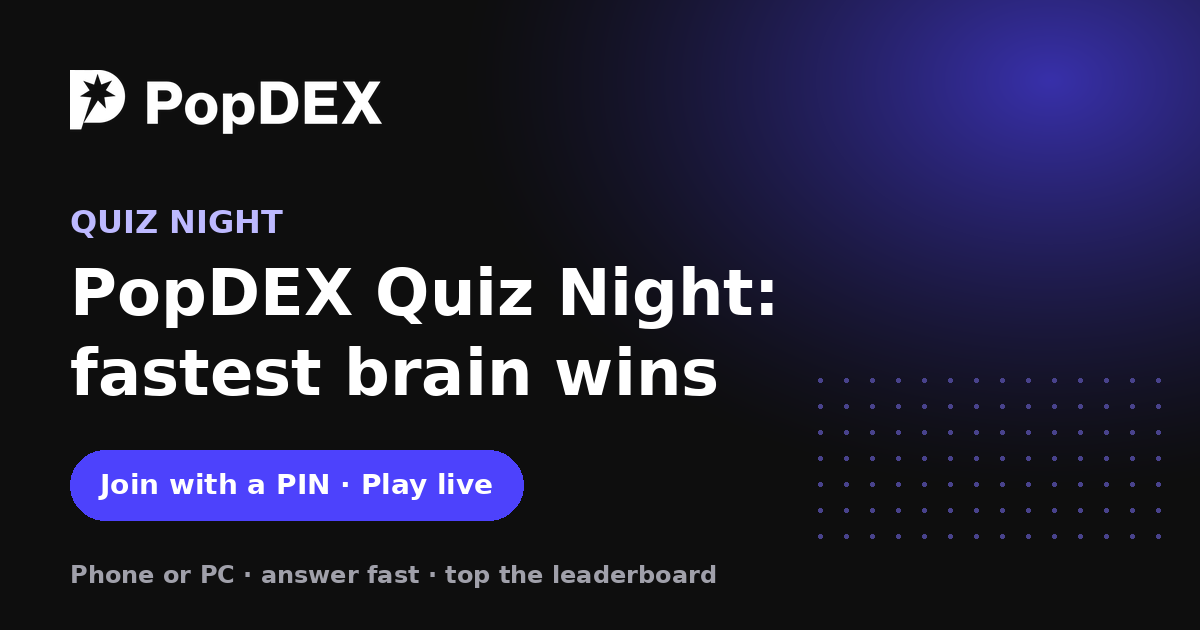
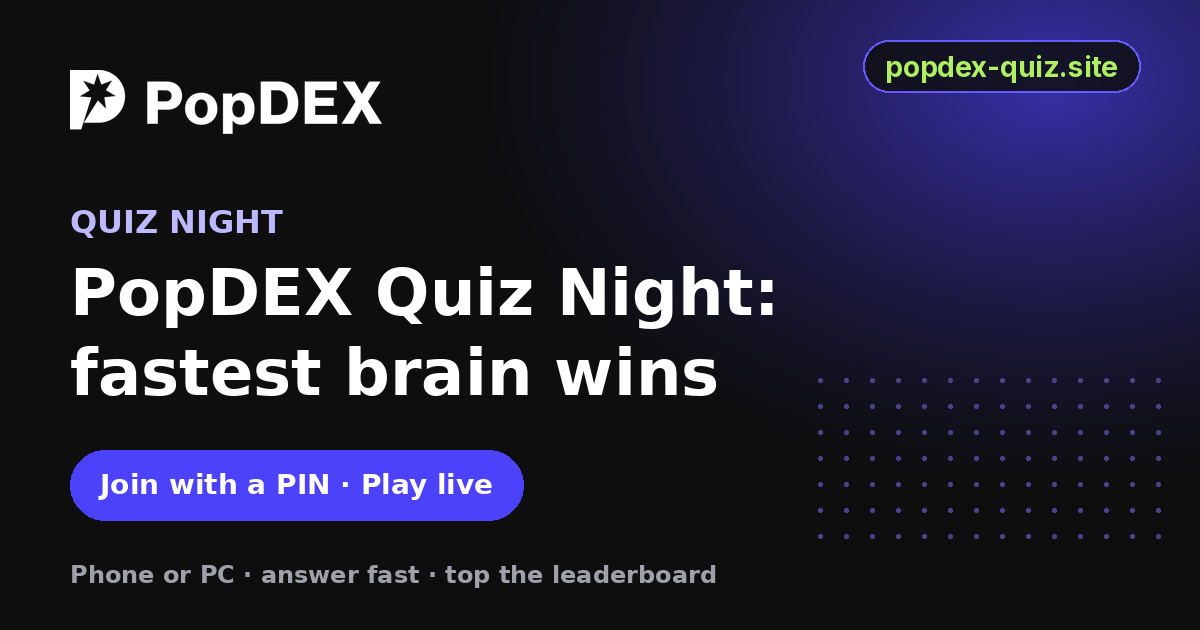
Show popdex-quiz.site on the link preview and score cards

Changed region(s): [[0.7092, 0.0603, 0.9558, 0.1508]]

diff --git a/_worker.js b/_worker.js
@@ -445,7 +445,7 @@ async function cardPage(env, id, origin) {
   const r = await cardRow(env, id);
   const html = (s, status, cache) => new Response(s, { status, headers: { "content-type": "text/html; charset=utf-8", "cache-control": cache } });
   if (!r) {
-    const meta = { title: "PopDEX Quiz", descr: "Think you know PopDEX? Play the community-made PopDEX Quiz: live games and solo practice.", url: PUBQ + "/", image: PUBQ + "/og.png?v=2", mime: "image/png", h: 630, alt: "PopDEX Quiz" };
+    const meta = { title: "PopDEX Quiz", descr: "Think you know PopDEX? Play the community-made PopDEX Quiz: live games and solo practice.", url: PUBQ + "/", image: PUBQ + "/og.png?v=3", mime: "image/png", h: 630, alt: "PopDEX Quiz" };
     return html(pageShell(origin, meta, `<h1>This score card has expired or doesn't exist</h1><p class="sub">Score cards are kept for 180 days. You can still play.</p><div class="cta"><a class="btn primary" href="/">Play the PopDEX Quiz</a><a class="btn" href="/solo.html">Play solo</a></div>`), 404, "public, max-age=60");
   }
   const image = `${PUBQ}/r/${r.id}.${r.mime === "image/png" ? "png" : "jpg"}`;

diff --git a/play.html b/play.html
@@ -8,7 +8,7 @@
 <meta name="theme-color" content="#0E0E0E">
 <meta property="og:title" content="Join a PopDEX Quiz Night game">
 <meta property="og:description" content="Enter the game PIN and your X handle to play the PopDEX Quiz Night.">
-<meta property="og:image" content="https://www.popdex-quiz.site/og.png?v=2">
+<meta property="og:image" content="https://www.popdex-quiz.site/og.png?v=3">
 <meta name="twitter:card" content="summary_large_image">
 <link rel="icon" href="favicon.png">
 <link rel="apple-touch-icon" href="apple-touch-icon.png">
@@ -38,6 +38,6 @@
   <div>No wallet connection, no prizes, just bragging rights.</div>
   <div>Built by <a href="https://x.com/iamlogtun" target="_blank" rel="noopener">@iamlogtun</a></div>
 </footer>
-<script src="common.js?v=20"></script><script src="sound.js?v=1"></script><script src="card.js?v=14"></script><script src="play.js?v=26"></script>
+<script src="common.js?v=20"></script><script src="sound.js?v=1"></script><script src="card.js?v=15"></script><script src="play.js?v=26"></script>
 </body>
 </html>

diff --git a/solo.html b/solo.html
@@ -8,7 +8,7 @@
 <meta name="theme-color" content="#0E0E0E">
 <meta property="og:title" content="PopDEX Quiz Night — play solo">
 <meta property="og:description" content="Play the PopDEX quiz on your own and test your knowledge.">
-<meta property="og:image" content="https://www.popdex-quiz.site/og.png?v=2">
+<meta property="og:image" content="https://www.popdex-quiz.site/og.png?v=3">
 <meta name="twitter:card" content="summary_large_image">
 <link rel="icon" href="favicon.png">
 <link rel="apple-touch-icon" href="apple-touch-icon.png">
@@ -28,6 +28,6 @@
   <div>No wallet connection, no prizes, just bragging rights.</div>
   <div>Built by <a href="https://x.com/iamlogtun" target="_blank" rel="noopener">@iamlogtun</a></div>
 </footer>
-<script src="common.js?v=20"></script><script src="sound.js?v=1"></script><script src="card.js?v=14"></script><script src="solo.js?v=17"></script>
+<script src="common.js?v=20"></script><script src="sound.js?v=1"></script><script src="card.js?v=15"></script><script src="solo.js?v=17"></script>
 </body>
 </html>

diff --git a/card.js b/card.js
@@ -70,7 +70,7 @@ function pqRankPanel(x, r, F, P) {
   x.fillStyle = P.sub; x.font = `700 30px ${F}`; x.fillText(`of ${r.players} player${r.players === 1 ? "" : "s"}`, cx, b + 260);
   x.textAlign = "left";
 }
-function pqFooter(x, F, color) { x.fillStyle = color; x.font = `600 24px ${F}`; x.textAlign = "right"; x.fillText("The trader-first perp DEX", 1130, 600); x.textAlign = "left"; }
+function pqFooter(x, F, color) { x.fillStyle = color; x.font = `600 24px ${F}`; x.textAlign = "right"; x.fillText("The trader-first perp DEX", 1130, 600); x.textAlign = "left"; x.font = `700 24px ${F}`; x.fillText("popdex-quiz.site", 70, 600); }
 
 // A · Midnight: the original dark card with the purple glow
 function pqDesignA(x, r, F) {

diff --git a/index.html b/index.html
@@ -8,7 +8,7 @@
 <meta name="theme-color" content="#0E0E0E">
 <meta property="og:title" content="PopDEX Quiz Night: fastest brain wins">
 <meta property="og:description" content="Join with the game PIN on your phone or PC, answer fast, and climb the leaderboard.">
-<meta property="og:image" content="https://www.popdex-quiz.site/og.png?v=2">
+<meta property="og:image" content="https://www.popdex-quiz.site/og.png?v=3">
 <meta name="twitter:card" content="summary_large_image">
 <link rel="icon" href="favicon.png">
 <link rel="apple-touch-icon" href="apple-touch-icon.png">

diff --git a/editor.html b/editor.html
@@ -8,7 +8,7 @@
 <meta name="theme-color" content="#0E0E0E">
 <meta property="og:title" content="PopDEX Quiz — question editor">
 <meta property="og:description" content="Edit PopDEX Quiz question sets: add, edit, delete, import and export questions.">
-<meta property="og:image" content="https://www.popdex-quiz.site/og.png?v=2">
+<meta property="og:image" content="https://www.popdex-quiz.site/og.png?v=3">
 <meta name="twitter:card" content="summary_large_image">
 <link rel="icon" href="favicon.png">
 <link rel="apple-touch-icon" href="apple-touch-icon.png">

diff --git a/host.html b/host.html
@@ -8,7 +8,7 @@
 <meta name="theme-color" content="#0E0E0E">
 <meta property="og:title" content="Host a PopDEX Quiz game">
 <meta property="og:description" content="Host a live PopDEX quiz: game PIN, QR code, lobby, timer, leaderboard and podium.">
-<meta property="og:image" content="https://www.popdex-quiz.site/og.png?v=2">
+<meta property="og:image" content="https://www.popdex-quiz.site/og.png?v=3">
 <meta name="twitter:card" content="summary_large_image">
 <link rel="icon" href="favicon.png">
 <link rel="apple-touch-icon" href="apple-touch-icon.png">
